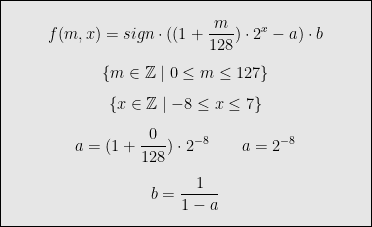
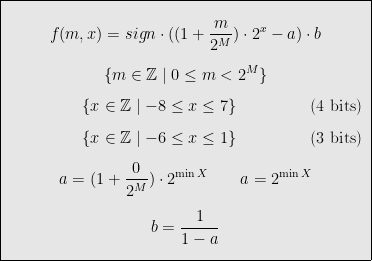
formula

diff --git a/images/formula.tex b/images/formula.tex
@@ -13,27 +13,33 @@
         \\
 
             \vbox{\begin{equation*}
-            f(m, x) = sign \cdot ((1 + \frac{m}{128}) \cdot 2^{x} - a) \cdot b
+            f(m, x) = sign \cdot ((1 + \frac{m}{2^{M}}) \cdot 2^{x} - a) \cdot b
             \end{equation*}}
 
         \\
 
             \vbox{\begin{equation*}
-            \{ m \in \mathbb{Z} \mid 0 \leq m \leq 127 \}
+            \{ m \in \mathbb{Z} \mid 0 \leq m < 2^{M} \}
             \end{equation*}}
 
         \\
 
-            \vbox{\begin{equation*}
+            \vbox{\begin{equation*}\tag{4 bits}
             \{ x \in \mathbb{Z} \mid -8 \leq x \leq 7 \}
             \end{equation*}}
 
         \\
 
+            \vbox{\begin{equation*}\tag{3 bits}
+            \{ x \in \mathbb{Z} \mid -6 \leq x \leq 1 \}
+            \end{equation*}}
+
+        \\
+
             \vbox{\begin{equation*}
-            a = (1 + \frac{0}{128}) \cdot 2^{-8}
+            a = (1 + \frac{0}{2^{M}}) \cdot 2^{\min{X}}
             \quad \quad
-            a = 2^{-8}
+            a = 2^{\min{X}}
             \end{equation*}}
 
         \\
